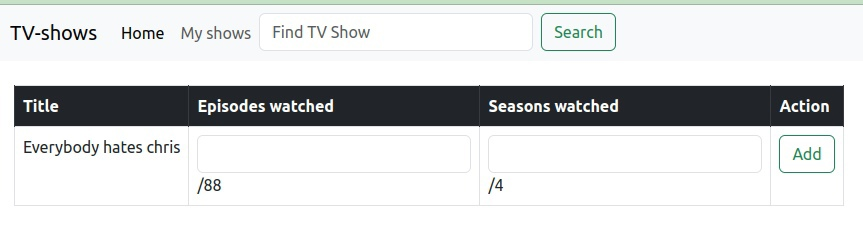
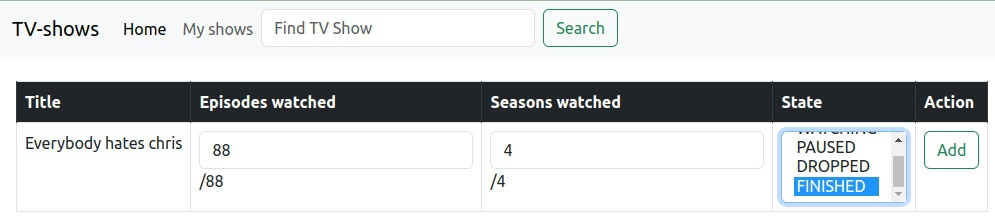
MAIN Added show watch state

diff --git a/services/shows-frontend-service/src/main/resources/templates/addShowUser.html b/services/shows-frontend-service/src/main/resources/templates/addShowUser.html
@@ -12,6 +12,7 @@
         <th class="table-dark">Title</th>
         <th class="table-dark">Episodes watched</th>
         <th class="table-dark">Seasons watched</th>
+        <th class="table-dark">State</th>
         <th class="table-dark">Action</th>
     </tr>
     <tr>
@@ -22,6 +23,10 @@
                     th:text="${show.episodesCount}"></th:block></div></td>
             <td><input type="text" class="form-control" name="seasonsWatched"><div>/<th:block
                     th:text="${show.seasonsCount}"></th:block></div></td>
+            <td><select class="form-select" size="3" name="state">
+                <option th:each="state: ${states}" th:value="${state}" th:text="${state}"></option>
+            </select></td>
+            </td>
             <td>
                 <button button class="btn btn-outline-success" type="submit">Add</button>
             </td>

diff --git a/services/shows-frontend-service/src/main/resources/templates/myShows.html b/services/shows-frontend-service/src/main/resources/templates/myShows.html
@@ -16,6 +16,7 @@
         <th class="table-dark">Show</th>
         <th class="table-dark">Episodes watched</th>
         <th class="table-dark">Seasons watched</th>
+        <th class="table-dark">State</th>
         <th class="table-dark">Action</th>
         <th class="table-dark">Action</th>
     </tr>
@@ -35,6 +36,11 @@
                     <th:block
                             th:text="${record.seasonsCount}"></th:block>
                 </div>
+            </td>
+            <td><select id="state" class="form-select" size="3" name="state">
+                <option th:each="state: ${states}" th:value="${state}" th:text="${state}"
+                        th:selected="${record.state==state}"></option>
+            </select></td>
             </td>
             <td>
                 <button class="btn btn-outline-success" type="submit">Update</button>

diff --git a/services/shows-frontend-service/src/main/java/com/demo/showcase/front/controller/FrontController.java b/services/shows-frontend-service/src/main/java/com/demo/showcase/front/controller/FrontController.java
@@ -8,6 +8,7 @@ import com.demo.showcase.common.dto.UsersShowRequest;
 import com.demo.showcase.common.dto.mapper.ShowsDtoMapper;
 import com.demo.showcase.common.enums.ShowGenre;
 import com.demo.showcase.common.enums.ShowStage;
+import com.demo.showcase.common.enums.WatchState;
 import com.demo.showcase.common.feign.DictionariesFeignClient;
 import com.demo.showcase.common.feign.ShowsDataFeignClient;
 import com.demo.showcase.common.feign.UsersShowsFeignClient;
@@ -74,9 +75,15 @@ public class FrontController {
 
     @GetMapping(BASE_URL + "/users/shows/{id}")
     public String addShowUserPage(@PathVariable("id") UUID id, Model model) {
-        ShowView show = showsDataFeignClient.findShowInfoById(KeycloakUtils.getBearerToken(), id);
-        model.addAttribute("show", show);
-        return "addShowUser";
+        try {
+            ShowView show = showsDataFeignClient.findShowInfoById(KeycloakUtils.getBearerToken(), id);
+            List<WatchState> states = dictionariesFeignClient.getStates(KeycloakUtils.getBearerToken());
+            model.addAttribute("states", states);
+            model.addAttribute("show", show);
+            return "addShowUser";
+        } catch (FeignException e) {
+            return handleFeignException(model, e);
+        }
     }
 
     @PostMapping(BASE_URL + "/users/shows/{id}")
@@ -106,9 +113,15 @@ public class FrontController {
     @PreAuthorize("hasAnyRole('USER')")
     @GetMapping(BASE_URL + "/myShows")
     public String myShows(Model model) {
-        List<GetUserShowsResponse> records = usersShowsFeignClient.getUserShows(KeycloakUtils.getBearerToken());
-        model.addAttribute("records", records);
-        return "myShows";
+        try {
+            List<GetUserShowsResponse> records = usersShowsFeignClient.getUserShows(KeycloakUtils.getBearerToken());
+            List<WatchState> states = dictionariesFeignClient.getStates(KeycloakUtils.getBearerToken());
+            model.addAttribute("states", states);
+            model.addAttribute("records", records);
+            return "myShows";
+        } catch (FeignException e) {
+            return handleFeignException(model, e);
+        }
     }
 
     @DeleteMapping(BASE_URL + "/myShows/{id}")

diff --git a/common/data/src/main/java/com/demo/showcase/common/data/UserShowsRepository.java b/common/data/src/main/java/com/demo/showcase/common/data/UserShowsRepository.java
@@ -26,7 +26,8 @@ public class UserShowsRepository extends BaseRepository<UserShowsEntity> {
 
     public List<GetUserShowsResponse> getUserShows(UUID userId) {
         return em.createQuery("""
-                              select new com.demo.showcase.common.dto.GetUserShowsResponse(u.id, u.showId, s.title, u.seasonsWatched, u.episodesWatched, s.seasonsCount, s.episodesCount)
+                              select new com.demo.showcase.common.dto.GetUserShowsResponse(u.id, u.showId, s.title, u.seasonsWatched, 
+                              u.episodesWatched, s.seasonsCount, s.episodesCount, u.state)
                               from UserShowsEntity u
                               inner join ShowEntity s on u.showId = s.id 
                               where u.userId = :userId and u.isDeleted = false
@@ -54,6 +55,10 @@ public class UserShowsRepository extends BaseRepository<UserShowsEntity> {
         if (dto.getSeasonsWatched() != null) {
             querySb.append(", u.seasonsWatched = :se");
             params.put("se", dto.getSeasonsWatched());
+        }
+        if (dto.getState() != null) {
+            querySb.append(", u.state = :state");
+            params.put("state", dto.getState());
         }
         querySb.append(" where u.showId =:showId");
         querySb.append(" and u.userId =: userId and u.isDeleted = false");

diff --git a/services/shows-data-service/src/main/java/com/demo/showcase/sds/controller/DictionariesApiController.java b/services/shows-data-service/src/main/java/com/demo/showcase/sds/controller/DictionariesApiController.java
@@ -2,6 +2,7 @@ package com.demo.showcase.sds.controller;
 
 import com.demo.showcase.common.enums.ShowGenre;
 import com.demo.showcase.common.enums.ShowStage;
+import com.demo.showcase.common.enums.WatchState;
 import com.demo.showcase.sds.api.DictionariesApi;
 import lombok.RequiredArgsConstructor;
 import org.springframework.web.bind.annotation.RestController;
@@ -15,11 +16,19 @@ public class DictionariesApiController implements DictionariesApi {
 
     @Override
     public List<ShowGenre> getShowsGenres() {
-        return Arrays.stream(ShowGenre.values()).toList();
+        return Arrays.stream(ShowGenre.values())
+                     .toList();
     }
 
     @Override
     public List<ShowStage> getShowsStages() {
-        return Arrays.stream(ShowStage.values()).toList();
+        return Arrays.stream(ShowStage.values())
+                     .toList();
+    }
+
+    @Override
+    public List<WatchState> getStates() {
+        return Arrays.stream(WatchState.values())
+                     .toList();
     }
 }

diff --git a/common/feign-clients/src/main/java/com/demo/showcase/common/feign/DictionariesFeignClient.java b/common/feign-clients/src/main/java/com/demo/showcase/common/feign/DictionariesFeignClient.java
@@ -3,6 +3,7 @@ package com.demo.showcase.common.feign;
 import com.demo.showcase.common.dto.ShowShortInfo;
 import com.demo.showcase.common.enums.ShowGenre;
 import com.demo.showcase.common.enums.ShowStage;
+import com.demo.showcase.common.enums.WatchState;
 import org.springframework.cloud.openfeign.FeignClient;
 import org.springframework.web.bind.annotation.RequestHeader;
 import org.springframework.web.bind.annotation.RequestMapping;
@@ -12,6 +13,9 @@ import java.util.List;
 
 @FeignClient(value = "dictionariesClient", url = "${http-clients.backend-url}")
 public interface DictionariesFeignClient {
+
+    @RequestMapping(method = RequestMethod.GET, value = "/api/dictionaries/watchStates")
+    List<WatchState> getStates(@RequestHeader("Authorization") String bearerToken);
 
     @RequestMapping(method = RequestMethod.GET, value = "/api/dictionaries/genres")
     List<ShowGenre> getGenres(@RequestHeader("Authorization") String bearerToken);

diff --git a/services/shows-data-service/src/main/java/com/demo/showcase/sds/api/DictionariesApi.java b/services/shows-data-service/src/main/java/com/demo/showcase/sds/api/DictionariesApi.java
@@ -2,6 +2,7 @@ package com.demo.showcase.sds.api;
 
 import com.demo.showcase.common.enums.ShowGenre;
 import com.demo.showcase.common.enums.ShowStage;
+import com.demo.showcase.common.enums.WatchState;
 import io.swagger.v3.oas.annotations.Operation;
 import io.swagger.v3.oas.annotations.tags.Tag;
 import org.springframework.web.bind.annotation.GetMapping;
@@ -23,4 +24,7 @@ public interface DictionariesApi {
     @Operation(summary = "Получение списка статусов шоу")
     List<ShowStage> getShowsStages();
 
+    @GetMapping("/watchStates")
+    @Operation(summary = "Получение списка статусов шоу в списке юзера")
+    List<WatchState> getStates();
 }

diff --git a/common/data/src/main/java/com/demo/showcase/common/data/UserShowsEntity.java b/common/data/src/main/java/com/demo/showcase/common/data/UserShowsEntity.java
@@ -2,6 +2,7 @@ package com.demo.showcase.common.data;
 
 import com.demo.showcase.common.enums.ShowGenre;
 import com.demo.showcase.common.enums.ShowStage;
+import com.demo.showcase.common.enums.WatchState;
 import lombok.Getter;
 import lombok.Setter;
 import lombok.ToString;
@@ -40,5 +41,9 @@ public class UserShowsEntity {
 
     @Column(name = "is_deleted")
     private boolean isDeleted;
+
+    @Column(name = "state")
+    @Enumerated(EnumType.STRING)
+    private WatchState state;
 
 }

diff --git a/services/shows-data-service/src/main/java/com/demo/showcase/sds/service/UsersDataService.java b/services/shows-data-service/src/main/java/com/demo/showcase/sds/service/UsersDataService.java
@@ -56,6 +56,7 @@ public class UsersDataService {
         userShowsEntity.setShowId(request.getShowId());
         userShowsEntity.setEpisodesWatched(request.getEpisodesWatched());
         userShowsEntity.setSeasonsWatched(request.getSeasonsWatched());
+        userShowsEntity.setState(request.getState());
         return userShowsEntity;
     }
 

diff --git a/common/dto/src/main/java/com/demo/showcase/common/dto/GetUserShowsResponse.java b/common/dto/src/main/java/com/demo/showcase/common/dto/GetUserShowsResponse.java
@@ -1,5 +1,6 @@
 package com.demo.showcase.common.dto;
 
+import com.demo.showcase.common.enums.WatchState;
 import lombok.AllArgsConstructor;
 import lombok.Data;
 
@@ -22,5 +23,7 @@ public class GetUserShowsResponse {
     private Integer seasonsCount;
 
     private Integer episodesCount;
+
+    private WatchState state;
 
 }

diff --git a/common/dto/src/main/java/com/demo/showcase/common/dto/UsersShowRequest.java b/common/dto/src/main/java/com/demo/showcase/common/dto/UsersShowRequest.java
@@ -1,5 +1,6 @@
 package com.demo.showcase.common.dto;
 
+import com.demo.showcase.common.enums.WatchState;
 import lombok.Data;
 
 import java.util.UUID;
@@ -18,5 +19,7 @@ public class UsersShowRequest {
     @Positive
     @NotNull
     private Integer episodesWatched;
+
+    private WatchState state;
 
 }

diff --git a/common/enums/src/main/java/com/demo/showcase/common/enums/WatchState.java b/common/enums/src/main/java/com/demo/showcase/common/enums/WatchState.java
@@ -1,0 +1,8 @@
+package com.demo.showcase.common.enums;
+
+public enum WatchState {
+    WATCHING,
+    PAUSED,
+    DROPPED,
+    FINISHED
+}
